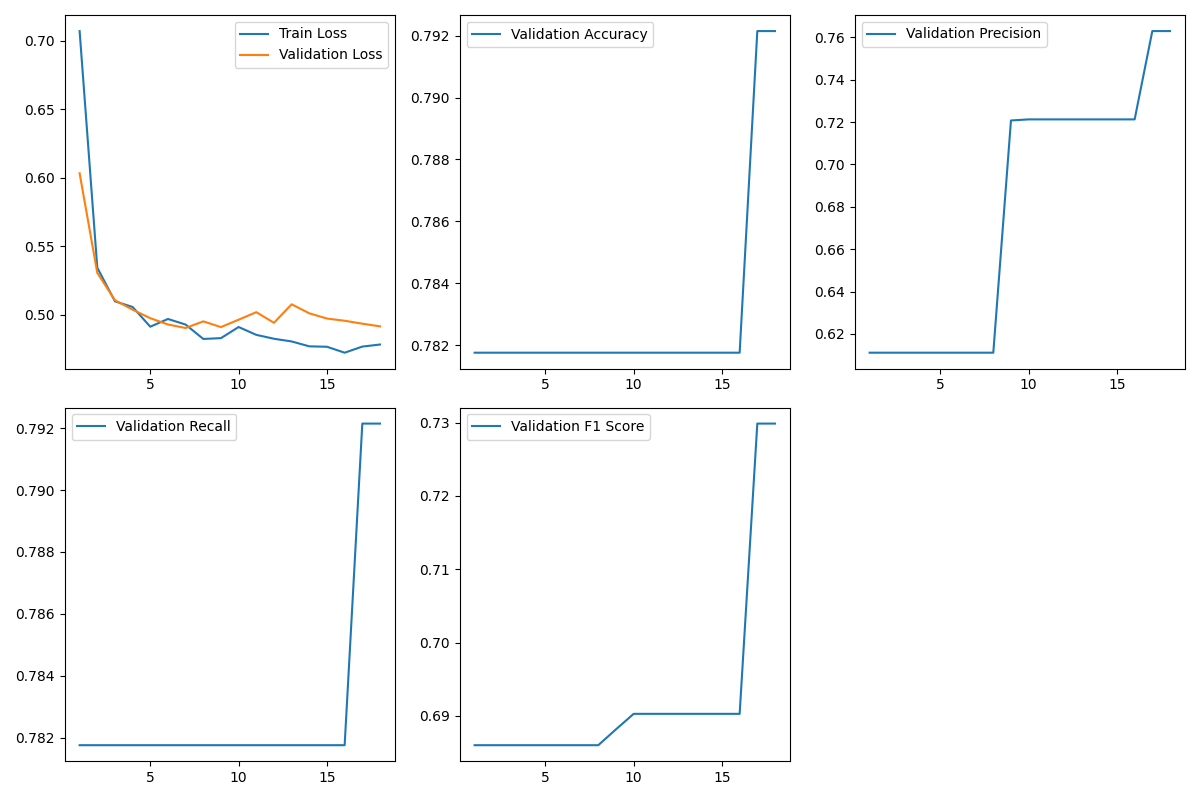
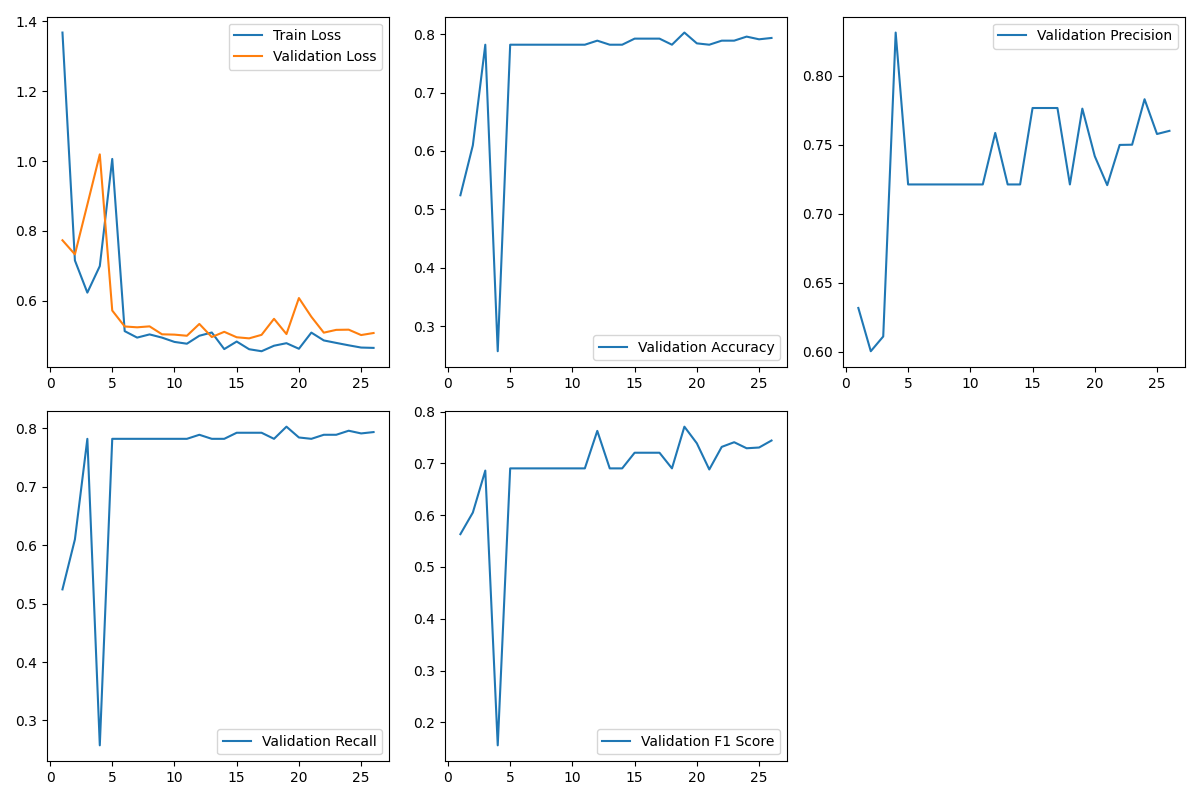
got ok performance, hp tuning next

diff --git a/prosody/training_scripts/prosody_raw_features_only.py b/prosody/training_scripts/prosody_raw_features_only.py
@@ -403,7 +403,7 @@ if __name__ == "__main__":
     print(f'Test size: {len(test_dataset)}')
 
     # Create the DataLoader
-    train_loader = DataLoader(train_dataset, batch_size=64, shuffle=True, collate_fn=collate_fn)
+    train_loader = DataLoader(train_dataset, batch_size=128, shuffle=True, collate_fn=collate_fn)
     val_loader = DataLoader(val_dataset, batch_size=32, shuffle=False, collate_fn=collate_fn)
     test_loader = DataLoader(test_dataset, batch_size=32, shuffle=False, collate_fn=collate_fn)
 
@@ -419,17 +419,17 @@ if __name__ == "__main__":
     all_labels = []
     for _, _, _, labels in train_dataset:
         all_labels.extend(labels.numpy().flatten())
-        
+
     num_classes = len(np.unique(all_labels))
     print(f'Model Training with {num_classes} classes')
 
     # Define model parameters
-    PROJECTED_DIM = 256  # Dimension after projection
+    PROJECTED_DIM = 128  # Dimension after projection
     INPUT_DIM = PROJECTED_DIM * 2  # Because we're concatenating two projected feature sets
-    HIDDEN_DIM = 128
+    HIDDEN_DIM = 256
     OUTPUT_DIM = num_classes
-    NUM_LAYERS = 4
-    DROPOUT = 0.5
+    NUM_LAYERS = 16
+    DROPOUT = 0.2
     NUM_ATTENTION_LAYERS = 4
 
     device = torch.device('cuda' if torch.cuda.is_available() else 'cpu')
